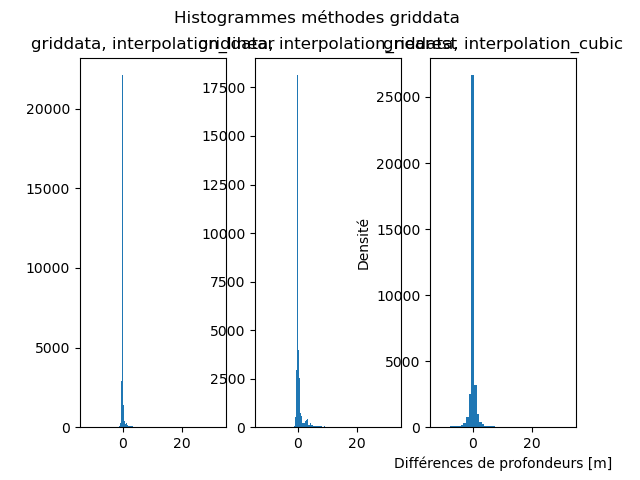
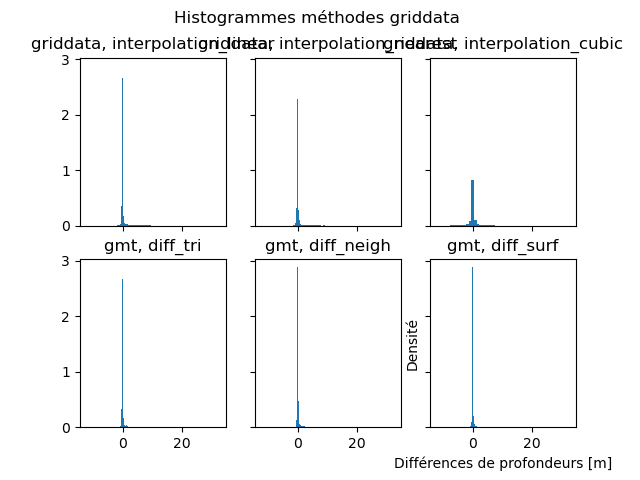
me

diff --git a/SBES/interpolationGRIDDATA.py b/SBES/interpolationGRIDDATA.py
@@ -8,7 +8,7 @@ from matplotlib.colors import Normalize
 import statsmodels.api as sm
 import seaborn as sns
 import inspect
-
+import math
 """ Interpolateur griddata"""
 
 def interpolation_nearest(pts, coord, X_grid, Y_grid):
@@ -45,8 +45,10 @@ def interpolate(interpolateur, pts, multifaisceaux):
     # Interpolation
     bornes_MBES = pygmt.info(multifaisceaux, spacing=0.3)  # pas de grille 30 cm
     bornes_SBES = pygmt.info(pts, spacing=1)
-    grid_MBES = pygmt.xyz2grd(multifaisceaux, spacing=(0.3, 0.3), region=bornes_MBES)
-    echantillon = pygmt.grdsample(grid_MBES, spacing=1, region=bornes_SBES)
+    bornes = [min(bornes_SBES[0], bornes_MBES[0]), max(bornes_MBES[1], bornes_SBES[1]), min(bornes_SBES[2], bornes_MBES[2]), max(bornes_MBES[3], bornes_SBES[3]) ]
+
+    grid_MBES = pygmt.xyz2grd(multifaisceaux, spacing=(0.3, 0.3), region=bornes) #bornes_MBES
+    echantillon = pygmt.grdsample(grid_MBES, spacing=1, region=bornes_SBES) #bornes_SBES
     x, y = echantillon.x.values, echantillon.y.values
     Z_multi = echantillon.values
     X_grid, Y_grid = np.meshgrid(x, y)
@@ -57,104 +59,268 @@ def interpolate(interpolateur, pts, multifaisceaux):
 
 
 def stats(pts, multifaisceaux):
+    #HEADLINE
+
+    #bornes_MBES = pygmt.info(multifaisceaux, spacing=0.3)  # pas de grille 30 cm
+    #bornes_SBES = pygmt.info(pts, spacing=1)
+    #grid_MBES = pygmt.xyz2grd(multifaisceaux, spacing=(0.3, 0.3), region=bornes_MBES)
+    #grid_multi = pygmt.grdsample(grid=grid_MBES, region=bornes_SBES, spacing=1)
+
     #Interpolateur
     interpolation_lin, X, Y, sol = interpolate(interpolation_linear, pts, multifaisceaux)
     interpolation_near, X, Y, sol = interpolate(interpolation_nearest, pts, multifaisceaux)
     interpolation_cub, X, Y, sol = interpolate(interpolation_cubic, pts, multifaisceaux)
+    PAS_GRILLE = 1
+    rayon = 35
+    secteur = 8
+    bornes = pygmt.info(pts, spacing=PAS_GRILLE)
+    inter_tri = pygmt.triangulate.regular_grid(data=pts, spacing=PAS_GRILLE, region=bornes)
+    inter_neigbour = pygmt.nearneighbor(data=pts, spacing=PAS_GRILLE, region=bornes, search_radius=rayon,
+                                        sectors=secteur)
+    df = pygmt.blockmean(data=pts, region=bornes, spacing=PAS_GRILLE)
+    inter_surface = pygmt.surface(data=df, spacing=PAS_GRILLE, region=bornes, T=0.35, verbose="i")
+    inter_surface.values[np.isnan(inter_tri)] = np.nan
+    interpolation_near[np.isnan(inter_tri)] = np.nan
 
-    #Affichage
-    plt.figure()
-    plt.subplot(3,1,1)
-    plt.contourf(X, Y, interpolation_lin, levels=50, cmap='gist_earth')
-    plt.title('Modèle {}'.format(retrieve_name(interpolation_lin)))
-    plt.colorbar(label='Hauteur [m]')
-    plt.xlabel('Est [m]')
-    plt.ylabel('Nord [m]')
-    plt.subplot(3,1, 2)
-    plt.contourf(X, Y, interpolation_near, levels=50, cmap='gist_earth')
-    plt.title('Modèle {}'.format(retrieve_name(interpolation_near)))
-    plt.colorbar(label='Hauteur [m]')
-    plt.xlabel('Est [m]')
-    plt.ylabel('Nord [m]')
-    plt.subplot(3,1, 3)
-    plt.contourf(X, Y, interpolation_cub, levels=50, cmap='gist_earth')
-    plt.title('Modèle {}'.format(retrieve_name(interpolation_lin)))
-    plt.colorbar(label='Hauteur [m]')
-    plt.xlabel('Est [m]')
-    plt.ylabel('Nord [m]')
-    plt.suptitle("Affichage méthodes griddata ")
-    plt.savefig("comparaison_interpolateur/Affichage interpolations Griddata")
-    plt.show()
+    ##Affichage
+    #plt.figure()
+    ##GRIDDATA
+    #plt.subplot(6,1,1)
+    #plt.contourf(X, Y, interpolation_lin, levels=50, cmap='gist_earth')
+    #plt.title('Modèle {}'.format(retrieve_name(interpolation_lin)))
+    #plt.colorbar(label='Hauteur [m]')
+    #plt.xlabel('Est [m]')
+    #plt.ylabel('Nord [m]')
+    #plt.subplot(6,1, 2)
+    #plt.contourf(X, Y, interpolation_near, levels=50, cmap='gist_earth')
+    #plt.title('Modèle {}'.format(retrieve_name(interpolation_near)))
+    #plt.colorbar(label='Hauteur [m]')
+    #plt.xlabel('Est [m]')
+    #plt.ylabel('Nord [m]')
+    #plt.subplot(6,1, 3)
+    #plt.contourf(X, Y, interpolation_cub, levels=50, cmap='gist_earth')
+    #plt.title('Modèle {}'.format(retrieve_name(interpolation_cub)))
+    #plt.colorbar(label='Hauteur [m]')
+    #plt.xlabel('Est [m]')
+    #plt.ylabel('Nord [m]')
+    ## PYGMT
+    ## INTERPOLATEUR DE TRIANGULATION
+    #plt.subplot(6, 2, 4)
+    #inter_tri = pygmt.triangulate.regular_grid(data=pts, spacing=PAS_GRILLE, region=bornes, verbose='i')
+    #im = plt.contourf(inter_tri.x, inter_tri.y, inter_tri, levels=50, cmap='gist_earth')
+    #plt.title('Modèle {}'.format("interpolation_triangulation"))
+    #plt.colorbar(im, label='Hauteur [m]')
+    #plt.xlabel('Est [m]')
+    #plt.ylabel('Nord [m]')
+    ## INTERPOLATEUR PLUS PROCHES VOISINS
+    #plt.subplot(6, 2, 5)
+    #im = plt.contourf(inter_neigbour.x, inter_neigbour.y, inter_neigbour, levels=50, cmap='gist_earth')
+    #plt.title('Modèle {}'.format("interpolation +proche voisins"))
+    #plt.colorbar(im, label='Hauteur [m]')
+    #plt.xlabel('Est [m]')
+    #plt.ylabel('Nord [m]')
+    ## INTERPOLATEUR SURFACE
+    #plt.subplot(6, 2, 6)
+    #im = plt.contourf(inter_surface.x, inter_surface.y, inter_surface, levels=50, cmap='gist_earth')
+    #plt.title('Modèle {}'.format("interpolation surface"))
+    #plt.colorbar(im, label='Hauteur [m]')
+    #plt.xlabel('Est [m]')
+    #plt.ylabel('Nord [m]')
+    #plt.suptitle("Affichage méthodes griddata ")
+    #plt.savefig("comparaison_interpolateur/Affichage interpolations")
+    #plt.show()
     # Statistiques
     interpolation_stat_lin = interpolation_lin[~np.isnan(interpolation_lin)]
     sol_stat_lin = sol[~np.isnan(interpolation_lin)]
     me_lin, stde_lin, rmse_lin = statistiques(interpolation_stat_lin, sol_stat_lin)
-    #print(f'Erreur moyenne : {me_lin:.3f}m')
-    #print(f'Écart-type : {stde_lin:.3f}m')
-    #print(f'RMSE : {rmse_lin:.3f}m')
+    print("-----------------------------C'est l'heure des statistiques----------------------------------------")
+    print("linear")
+    print(f'Erreur moyenne : {me_lin:.3f}m')
+    print(f'Écart-type : {stde_lin:.3f}m')
+    print(f'RMSE : {rmse_lin:.3f}m')
+    print("------------------------------------------------------------------------------------------------")
     interpolation_stat_near = interpolation_near[~np.isnan(interpolation_near)]
     sol_stat_near = sol[~np.isnan(interpolation_near)]
     me_near, stde_near, rmse_near = statistiques(interpolation_stat_near, sol_stat_near)
-
+    print("nearest")
+    print(f'Erreur moyenne : {me_near:.3f}m')
+    print(f'Écart-type : {stde_near:.3f}m')
+    print(f'RMSE : {rmse_near:.3f}m')
+    print("------------------------------------------------------------------------------------------------")
+    print("cubic")
     interpolation_stat_cub = interpolation_cub[~np.isnan(interpolation_cub)]
     sol_stat_cub = sol[~np.isnan(interpolation_cub)]
     me_cub, stde_cub, rmse_cub = statistiques(interpolation_stat_cub, sol_stat_cub)
-
-
+    print(f'Erreur moyenne : {me_cub:.3f}m')
+    print(f'Écart-type : {stde_cub:.3f}m')
+    print(f'RMSE : {rmse_cub:.3f}m')
+    print("------------------------------------------------------------------------------------------------")
+    print("triangulation")
+    interpolation_stat_tri = inter_tri.values[~np.isnan(inter_tri.values)]
+    sol_stat_tri = sol[~np.isnan(inter_tri.values)]
+    me_tri, stde_tri, rmse_tri = statistiques(interpolation_stat_tri, sol_stat_tri)
+    print(f'Erreur moyenne : {me_tri:.3f}m')
+    print(f'Écart-type : {stde_tri:.3f}m')
+    print(f'RMSE : {rmse_tri:.3f}m')
+    print("------------------------------------------------------------------------------------------------")
+    print("plus proche voisin")
+    interpolation_stat_neigh = inter_neigbour.values[~np.isnan(inter_neigbour.values)]
+    sol_stat_neigh = sol[~np.isnan(inter_neigbour.values)]
+    me_neigh, stde_neigh, rmse_neigh = statistiques(interpolation_stat_neigh, sol_stat_neigh)
+    print(f'Erreur moyenne : {me_neigh:.3f}m')
+    print(f'Écart-type : {stde_neigh:.3f}m')
+    print(f'RMSE : {rmse_neigh:.3f}m')
+    print("------------------------------------------------------------------------------------------------")
+    print("surface")
+    interpolation_stat_surf = inter_surface.values[~np.isnan(inter_surface.values)]
+    sol_stat_surf = sol[~np.isnan(inter_surface.values)]
+    me_surf, stde_surf, rmse_surf = statistiques(interpolation_stat_surf, sol_stat_surf)
+    print(f'Erreur moyenne : {me_surf:.3f}m')
+    print(f'Écart-type : {stde_surf:.3f}m')
+    print(f'RMSE : {rmse_surf:.3f}m')
+    print("------------------------------------------------------------------------------------------------")
     difference_lin = (interpolation_stat_lin - sol_stat_lin).flatten()
     difference_near = (interpolation_stat_near - sol_stat_near).flatten()
     difference_cub = (interpolation_stat_cub - sol_stat_cub).flatten()
-
-    # boite à moustache
     difference_lin = difference_lin[~np.isnan(difference_lin)]
     difference_near = difference_near[~np.isnan(difference_near)]
     difference_cub = difference_cub[~np.isnan(difference_cub)]
 
+    diff_tri = (interpolation_stat_tri - sol_stat_tri).flatten()
+    diff_neigh = (interpolation_stat_neigh - sol_stat_neigh).flatten()
+    diff_surf = (interpolation_stat_surf - sol_stat_surf).flatten()
+    diff_tri = diff_tri[~np.isnan(diff_tri)]
+    diff_neigh = diff_neigh[~np.isnan(diff_neigh)]
+    diff_surf = diff_surf[~np.isnan(diff_surf)]
+
+    # Différence pygmt
+    #diff_tri = (inter_tri.values[~np.isnan(inter_tri.values)] - sol[~np.isnan(inter_tri.values)]).flatten()
+    #diff_neighbor = (inter_neigbour.values[~np.isnan(inter_neigbour.values)] - sol[
+    #    ~np.isnan(inter_neigbour.values)]).flatten()
+    #diff_surface = (inter_surface.values[~np.isnan(inter_surface.values)] - sol[
+    #    ~np.isnan(inter_surface.values)]).flatten()
+#
+
+    # boite à moustache
+
+    # plt.figure()
+    # plt.subplot(1,3,1)
+    # plt.boxplot(difference_lin)
+    # plt.xlabel('Différences de profondeurs [m]')
+    # plt.ylabel('Densité')
+    # plt.text(0.6, 3, r'RMSE={0:.3f}m'.format(rmse_lin))
+    # plt.text(0.6, 2, r'Erreur_moyenne={0:.3f}m'.format(me_lin))
+    # plt.text(0.6, 1, r'Ecart_type={0:.3f}m'.format(stde_lin))
+    # plt.title("Boite à moustache : {}".format(retrieve_name(interpolation_linear)))
+    # plt.subplot(1, 3, 2)
+    # plt.boxplot(difference_near)
+    # plt.xlabel('Différences de profondeurs [m]')
+    # plt.ylabel('Densité')
+    # plt.text(0.6, 3, r'RMSE={0:.3f}m'.format(rmse_near))
+    # plt.text(0.6, 2, r'Erreur_moyenne={0:.3f}m'.format(me_near))
+    # plt.text(0.6, 1, r'Ecart_type={0:.3f}m'.format(stde_near))
+    # plt.title("Boite à moustache : {}".format(retrieve_name(interpolation_nearest)))
+    # plt.subplot(1, 3, 3)
+    # plt.boxplot(difference_cub)
+    # plt.xlabel('Différences de profondeurs [m]')
+    # plt.ylabel('Densité')
+    # plt.text(0.1, 3, r'RMSE={0:.3f}m'.format(rmse_cub))
+    # plt.text(0.1, 2, r'Erreur_moyenne={0:.3f}m'.format(me_cub))
+    # plt.text(0.1, 1, r'Ecart_type={0:.3f}m'.format(stde_cub))
+    # plt.title("Boite à moustache : {}".format(retrieve_name(interpolation_cubic)))
+    # plt.suptitle("Boites à moustache méthodes griddata ")
+
+    # fig, axes = plt.subplots(2, 3, sharey=True, sharex=True)
+    # axes[0, 0].boxplot(difference_near)
+    # plt.xlabel('Différences de profondeurs [m]')
+    # plt.ylabel('Densité')
+    # #plt.text(0.6, 3, r'RMSE={0:.3f}m'.format(rmse_near))
+    # #plt.text(0.6, 2, r'Erreur_moyenne={0:.3f}m'.format(me_near))
+    # #plt.text(0.6, 1, r'Ecart_type={0:.3f}m'.format(stde_near))
+    # axes[0, 0].set_title("Boite à moustache : {}".format(retrieve_name(interpolation_nearest)))
+    #
+    #
+    # axes[0, 1].boxplot(difference_lin)
+    # plt.xlabel('Différences de profondeurs [m]')
+    # plt.ylabel('Densité')
+    # #plt.text(0.6, 3, r'RMSE={0:.3f}m'.format(rmse_lin))
+    # #plt.text(0.6, 2, r'Erreur_moyenne={0:.3f}m'.format(me_lin))
+    # #plt.text(0.6, 1, r'Ecart_type={0:.3f}m'.format(stde_lin))
+    # axes[0, 1].set_title("Boite à moustache : {}".format(retrieve_name(interpolation_linear)))
+    #
+    #
+    # axes[0, 2].boxplot(difference_cub)
+    # plt.xlabel('Différences de profondeurs [m]')
+    # plt.ylabel('Densité')
+    # #plt.text(0.1, 3, r'RMSE={0:.3f}m'.format(rmse_cub))
+    # #plt.text(0.1, 2, r'Erreur_moyenne={0:.3f}m'.format(me_cub))
+    # #plt.text(0.1, 1, r'Ecart_type={0:.3f}m'.format(stde_cub))
+    # axes[0, 2].set_title("Boite à moustache : {}".format(retrieve_name(interpolation_cubic)))
+    #
+    #
+    # axes[1, 0].boxplot(diff_tri)
+    # plt.xlabel('Différences de profondeurs [m]')
+    # plt.ylabel('Densité')
+    # #plt.text(0.1, 3, r'RMSE={0:.3f}m'.format(rmse_tri))
+    # #plt.text(0.1, 2, r'Erreur_moyenne={0:.3f}m'.format(me_tri))
+    # #plt.text(0.1, 1, r'Ecart_type={0:.3f}m'.format(stde_tri))
+    # axes[1, 0].set_title("Boite à moustache : interpolation_triangulation")
+    #
+    # axes[1, 1].boxplot(diff_neighbor)
+    # plt.xlabel('Différences de profondeurs [m]')
+    # plt.ylabel('Densité')
+    # #plt.text(0.1, 3, r'RMSE={0:.3f}m'.format(rmse_neigh))
+    # #plt.text(0.1, 2, r'Erreur_moyenne={0:.3f}m'.format(me_neigh))
+    # #plt.text(0.1, 1, r'Ecart_type={0:.3f}m'.format(stde_neigh))
+    # axes[1, 1].set_title("Boite à moustache : interpolation_plus_proche_voisins")
+    #
+    # axes[1, 2].boxplot(diff_surface)
+    # plt.xlabel('Différences de profondeurs [m]')
+    # plt.ylabel('Densité')
+    # #plt.text(0.1, 3, r'RMSE={0:.3f}m'.format(rmse_surf))
+    # #plt.text(0.1, 2, r'Erreur_moyenne={0:.3f}m'.format(me_surf))
+    # #plt.text(0.1, 1, r'Ecart_type={0:.3f}m'.format(stde_surf))
+    # axes[1, 2].set_title("Boite à moustache : interpolation_surface")
+    #
+    # plt.suptitle("Boîtes à moustaches")
+    # plt.savefig('comparaison_interpolateur/comparaison_interpolateur_boite_moustache.png')
+    # plt.show()
     plt.figure()
-    plt.subplot(1,3,1)
-    plt.boxplot(difference_lin)
-    plt.xlabel('Différences de profondeurs [m]')
-    plt.ylabel('Densité')
-    plt.text(0.6, 3, r'RMSE={0:.3f}m'.format(rmse_lin))
-    plt.text(0.6, 2, r'Erreur_moyenne={0:.3f}m'.format(me_lin))
-    plt.text(0.6, 1, r'Ecart_type={0:.3f}m'.format(stde_lin))
-    plt.title("Boite à moustache : {}".format(retrieve_name(interpolation_linear)))
-    plt.subplot(1, 3, 2)
-    plt.boxplot(difference_near)
-    plt.xlabel('Différences de profondeurs [m]')
-    plt.ylabel('Densité')
-    plt.text(0.6, 3, r'RMSE={0:.3f}m'.format(rmse_near))
-    plt.text(0.6, 2, r'Erreur_moyenne={0:.3f}m'.format(me_near))
-    plt.text(0.6, 1, r'Ecart_type={0:.3f}m'.format(stde_near))
-    plt.title("Boite à moustache : {}".format(retrieve_name(interpolation_nearest)))
-    plt.subplot(1, 3, 3)
-    plt.boxplot(difference_cub)
-    plt.xlabel('Différences de profondeurs [m]')
-    plt.ylabel('Densité')
-    plt.text(0.1, 3, r'RMSE={0:.3f}m'.format(rmse_cub))
-    plt.text(0.1, 2, r'Erreur_moyenne={0:.3f}m'.format(me_cub))
-    plt.text(0.1, 1, r'Ecart_type={0:.3f}m'.format(stde_cub))
-    plt.title("Boite à moustache : {}".format(retrieve_name(interpolation_cubic)))
-    plt.suptitle("Boites à moustache méthodes griddata ")
+    names = ['triangulation', 'nearneighbor', 'surface', 'nearest', 'linear', 'cubic']
+    plt.boxplot([diff_tri, diff_neigh, diff_surf, difference_near, difference_lin, difference_cub], labels=names, showfliers=False)
+    plt.title("Comparaison des boxplots des méthodes d'interpolations avec les données multifaisceaux")
     plt.savefig('comparaison_interpolateur/comparaison_interpolateur_boite_moustache.png')
     plt.show()
-
     # Histogramme
-    fig, axes = plt.subplots(1, 3, sharex=True)
-    axes[ 0].hist(difference_lin, bins=50)
+    fig, axes = plt.subplots(2, 3, sharex=True, sharey=True)
+    axes[0, 0].hist(difference_lin, bins=50, density=True)
     plt.xlabel('Différences de profondeurs [m]')
     plt.ylabel('Densité')
-    axes[ 0].set_title('griddata, {}'.format(retrieve_name(interpolation_linear)))
+    axes[0, 0].set_title('griddata, {}'.format(retrieve_name(interpolation_linear)))
 
-    axes[ 1].hist(difference_near, bins=50)
+    axes[0, 1].hist(difference_near, bins=50, density=True)
     plt.xlabel('Différences de profondeurs [m]')
     plt.ylabel('Densité')
-    axes[ 1].set_title('griddata, {}'.format(retrieve_name(interpolation_nearest)))
+    axes[0, 1].set_title('griddata, {}'.format(retrieve_name(interpolation_nearest)))
 
-    axes[ 2].hist(difference_cub, bins=50)
+    axes[0, 2].hist(difference_cub, bins=50, density=True)
     plt.xlabel('Différences de profondeurs [m]')
     plt.ylabel('Densité')
-    axes[ 2].set_title('griddata, {}'.format(retrieve_name(interpolation_cubic)))
+    axes[0, 2].set_title('griddata, {}'.format(retrieve_name(interpolation_cubic)))
+    axes[1,0].hist(diff_tri, bins=50, density=True)
+    plt.xlabel('Différences de profondeurs [m]')
+    plt.ylabel('Densité')
+    axes[1,0].set_title('gmt, {}'.format(retrieve_name(diff_tri)))
+
+    axes[1,1].hist(diff_neigh, bins=50, density=True)
+    plt.xlabel('Différences de profondeurs [m]')
+    plt.ylabel('Densité')
+    axes[1,1].set_title('gmt, {}'.format(retrieve_name(diff_neigh)))
+
+    axes[1,2].hist(diff_surf, bins=50, density=True)
+    plt.xlabel('Différences de profondeurs [m]')
+    plt.ylabel('Densité')
+    axes[1,2].set_title('gmt, {}'.format(retrieve_name(diff_surf)))
     plt.suptitle("Histogrammes méthodes griddata ")
     plt.savefig('comparaison_interpolateur/Histogrammes.png')
     plt.show()
@@ -163,19 +329,31 @@ def stats(pts, multifaisceaux):
     difference_n = interpolation_near - sol
     difference_l = interpolation_lin - sol
     difference_c = interpolation_cub - sol
+    diff_tri = inter_tri.values - sol
+    diff_neighbor = inter_neigbour - sol
+    diff_surface = inter_surface - sol
     cmap = 'bwr'
-    fig, ax = plt.subplots(1, 3, figsize=(10, 6), constrained_layout=True)
+    fig, ax = plt.subplots(2, 3, figsize=(10, 6), constrained_layout=True)
     # Normalisation avec définition du demi-intervalle
     normalize1 = CenteredNorm(0, halfrange=1)
-    c1 = ax[0].pcolor(X, Y, difference_n, cmap=cmap, norm=normalize1)
-    ax[0].set(title='Différences nearest')
-    plt.colorbar(c1, label='Différences profondeurs [m]', ax=ax[ 0])
-    c2 = ax[1].pcolor(X, Y, difference_l, cmap=cmap, norm=normalize1)
-    ax[1].set(title='Différences linear')
-    plt.colorbar(c2, label='Différences profondeurs [m]', ax=ax[ 1])
-    c31 = ax[ 2].pcolor(X, Y, difference_c, cmap=cmap, norm=normalize1)
-    ax[2].set(title='Différences cubic')
-    plt.colorbar(c31, label='Différences profondeurs [m]', ax=ax[2])
+    c1 = ax[0, 0].pcolor(X, Y, diff_tri, cmap=cmap, norm=normalize1)
+    ax[0, 0].set(title='Différences triangulation')
+    plt.colorbar(c1, label='Différences profondeurs [m]', ax=ax[0, 0])
+    c2 = ax[0, 1].pcolor(X, Y, diff_neighbor, cmap=cmap, norm=normalize1)
+    ax[0, 1].set(title='Différences plus proche voisin')
+    plt.colorbar(c2, label='Différences profondeurs [m]', ax=ax[0, 1])
+    c31 = ax[0, 2].pcolor(X, Y, diff_surface, cmap=cmap, norm=normalize1)
+    ax[0, 2].set(title='Différences surface')
+    plt.colorbar(c31, label='Différences profondeurs [m]', ax=ax[0, 2])
+    c12 = ax[1,0].pcolor(X, Y, difference_n, cmap=cmap, norm=normalize1)
+    ax[1,0].set(title='Différences nearest')
+    plt.colorbar(c12, label='Différences profondeurs [m]', ax=ax[1, 0])
+    c22 = ax[1,1].pcolor(X, Y, difference_l, cmap=cmap, norm=normalize1)
+    ax[1,1].set(title='Différences linear')
+    plt.colorbar(c22, label='Différences profondeurs [m]', ax=ax[1, 1])
+    c32 = ax[1, 2].pcolor(X, Y, difference_c, cmap=cmap, norm=normalize1)
+    ax[1,2].set(title='Différences cubic')
+    plt.colorbar(c32, label='Différences profondeurs [m]', ax=ax[1,2])
     plt.suptitle('Différences interpolation / solution multifaisceaux')
     for axe in ax.flat:
         axe.set(xlabel='Est [m]', ylabel='Nord [m]')
